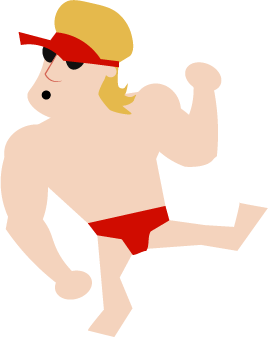
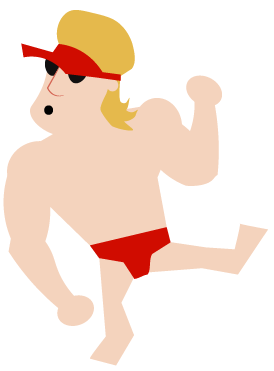
Added images

diff --git a/fighterguy/mainwindow.cpp b/fighterguy/mainwindow.cpp
@@ -70,15 +70,16 @@ void MainWindow::on_FightButton_clicked()
 
     if(characterSelect ==0){
 
-        p1Pics= {QPixmap(":/assets/lifegaurd.png"), QPixmap(":/assets/lgkick.png"), QPixmap(":/assets/lgpunch.png"), QPixmap(":/assets/lgblock.png")};
-        p2Pics= {QPixmap(":/assets/foodtruckJim.png"), QPixmap(":/assets/lifegaurd.png")};
+        p1Pics= {QPixmap(":/assets/lgLenny.png"), QPixmap(":/assets/lgkick.png"), QPixmap(":/assets/lgpunch.png"), QPixmap(":/assets/lgblock.png")};
+        p2Pics= {QPixmap(":/assets/jimnormal.png"), QPixmap(":/assets/jimkick.png"),QPixmap(":/assets/jimpunch.png"),QPixmap(":/assets/jimblock.png")};
 
 //    QGraphicsPixmapItem* item = ui->graphicsView->scene()->addPixmap(mypix);
 //    item->setPixmap(mypix.scaled(200,400,Qt::KeepAspectRatio));
        }
     else{
-       p1Pics= {QPixmap(":/assets/foodtruckJim.png"), QPixmap(":/assets/lifegaurd.png")};
-       p2Pics= {QPixmap(":/assets/lifegaurd.png"), QPixmap(":/assets/foodtruckJim.png")};
+
+        p1Pics= {QPixmap(":/assets/jimnormal.png"), QPixmap(":/assets/jimkick.png"),QPixmap(":/assets/jimpunch.png"),QPixmap(":/assets/jimblock.png")};
+        p2Pics= {QPixmap(":/assets/lgLenny.png"), QPixmap(":/assets/lgkick.png"), QPixmap(":/assets/lgpunch.png"), QPixmap(":/assets/lgblock.png")};
 //       QGraphicsPixmapItem* item = ui->graphicsView->scene()->addPixmap(mypix);
 
 //       item->setPixmap(mypix.scaled(200,400,Qt::KeepAspectRatio));

diff --git a/fighterguy/fighter.cpp b/fighterguy/fighter.cpp
@@ -36,7 +36,7 @@ int Fighter::getHealth(){
 
 //set blocking state to true
 void Fighter::block(){
-    setPixmap(pics[3].scaled(100,200,Qt::KeepAspectRatio));
+    setPixmap(pics[3].scaled(120,240,Qt::KeepAspectRatio));
     this->blocking = true;
 }
 
@@ -99,7 +99,7 @@ void Fighter::kick(){
 
 //Punch an opponent
 void Fighter::punch(){
-    setPixmap(pics[2].scaled(140,280,Qt::KeepAspectRatio));
+    setPixmap(pics[2].scaled(120,240,Qt::KeepAspectRatio));   //.scaled(140,280,Qt::KeepAspectRatio));
     if (this->opponentInRange()){
         this->opponent->takePunch();
     }

diff --git a/fighterguy/timer.cpp b/fighterguy/timer.cpp
@@ -20,7 +20,7 @@ MyTimer::MyTimer(QGraphicsTextItem* timerLabel, Controller* controller)
     timerLabel->setFont(QFont("times",16));//and this font type and size
 
 
-    seconds= 12;
+    seconds= 75;
 }
 
 MyTimer::~MyTimer(){
